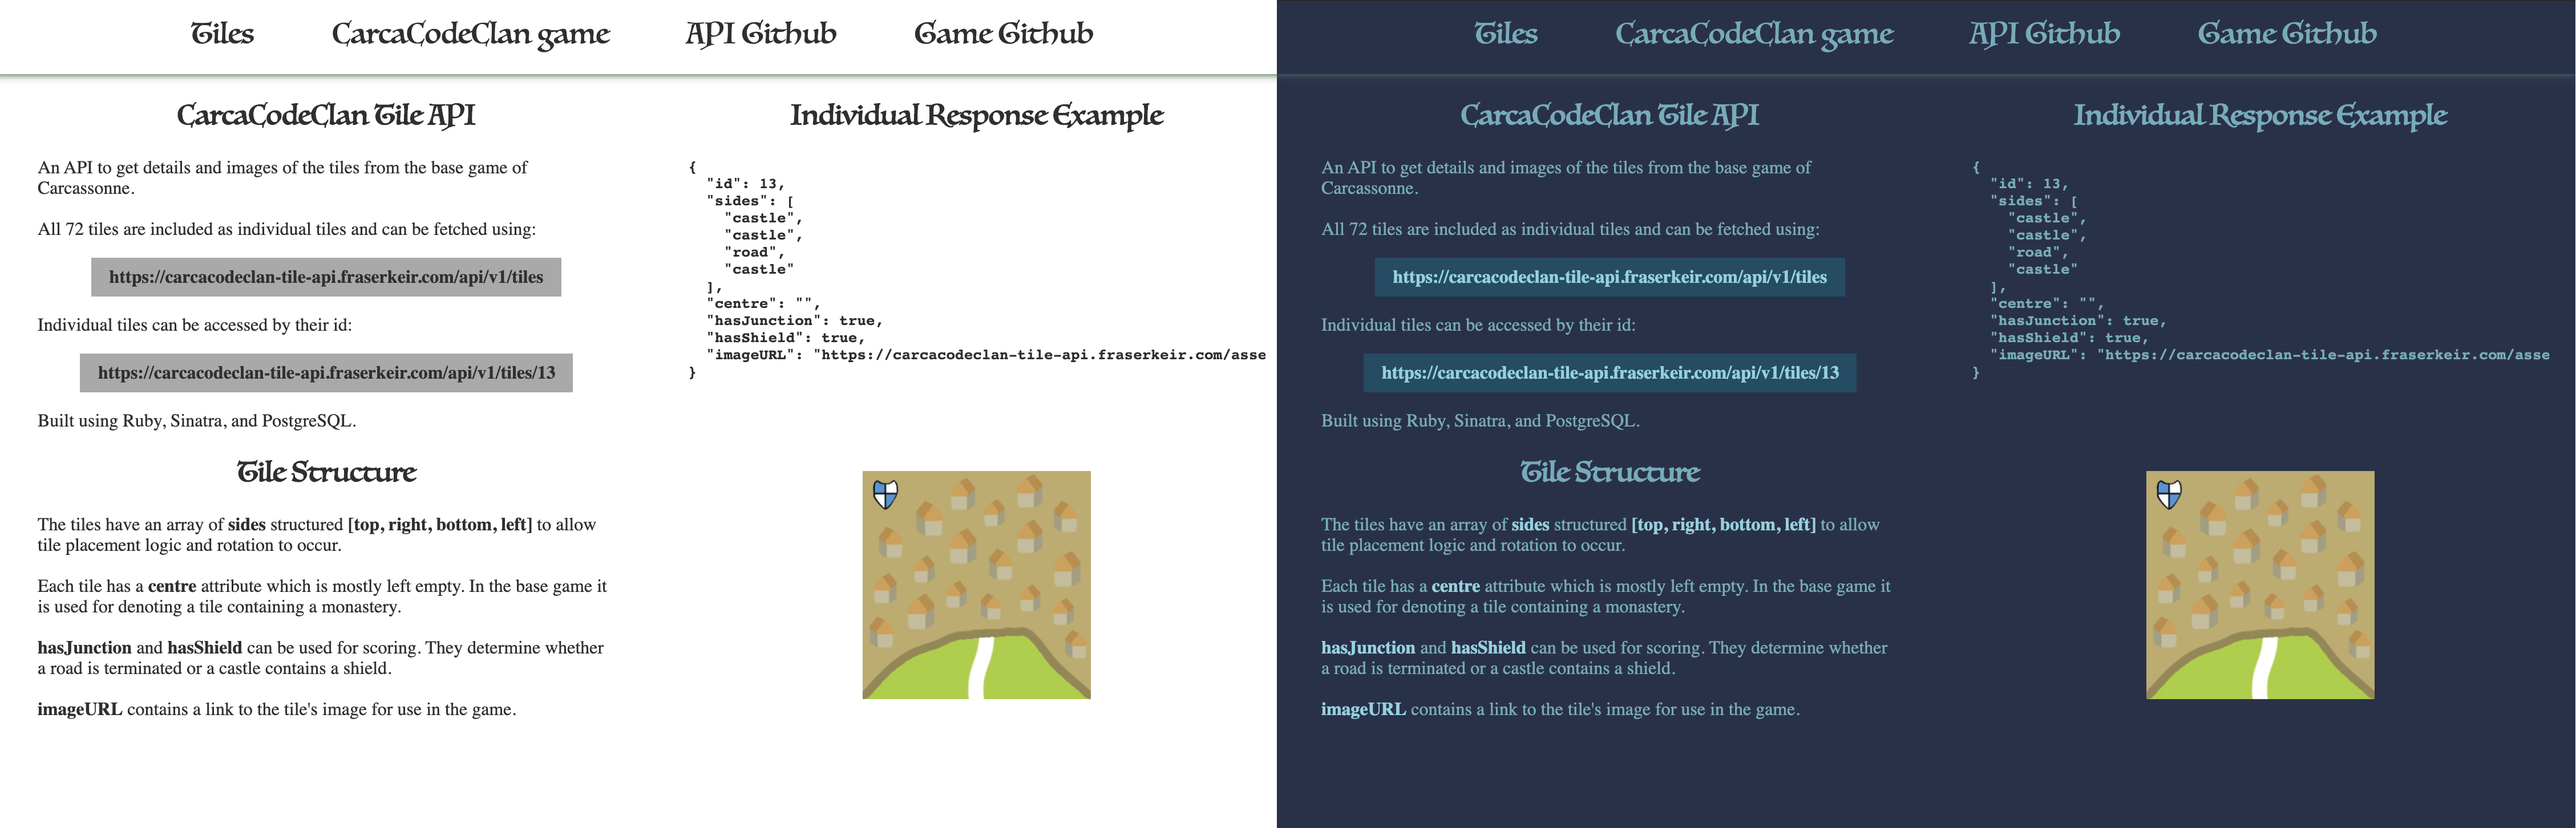
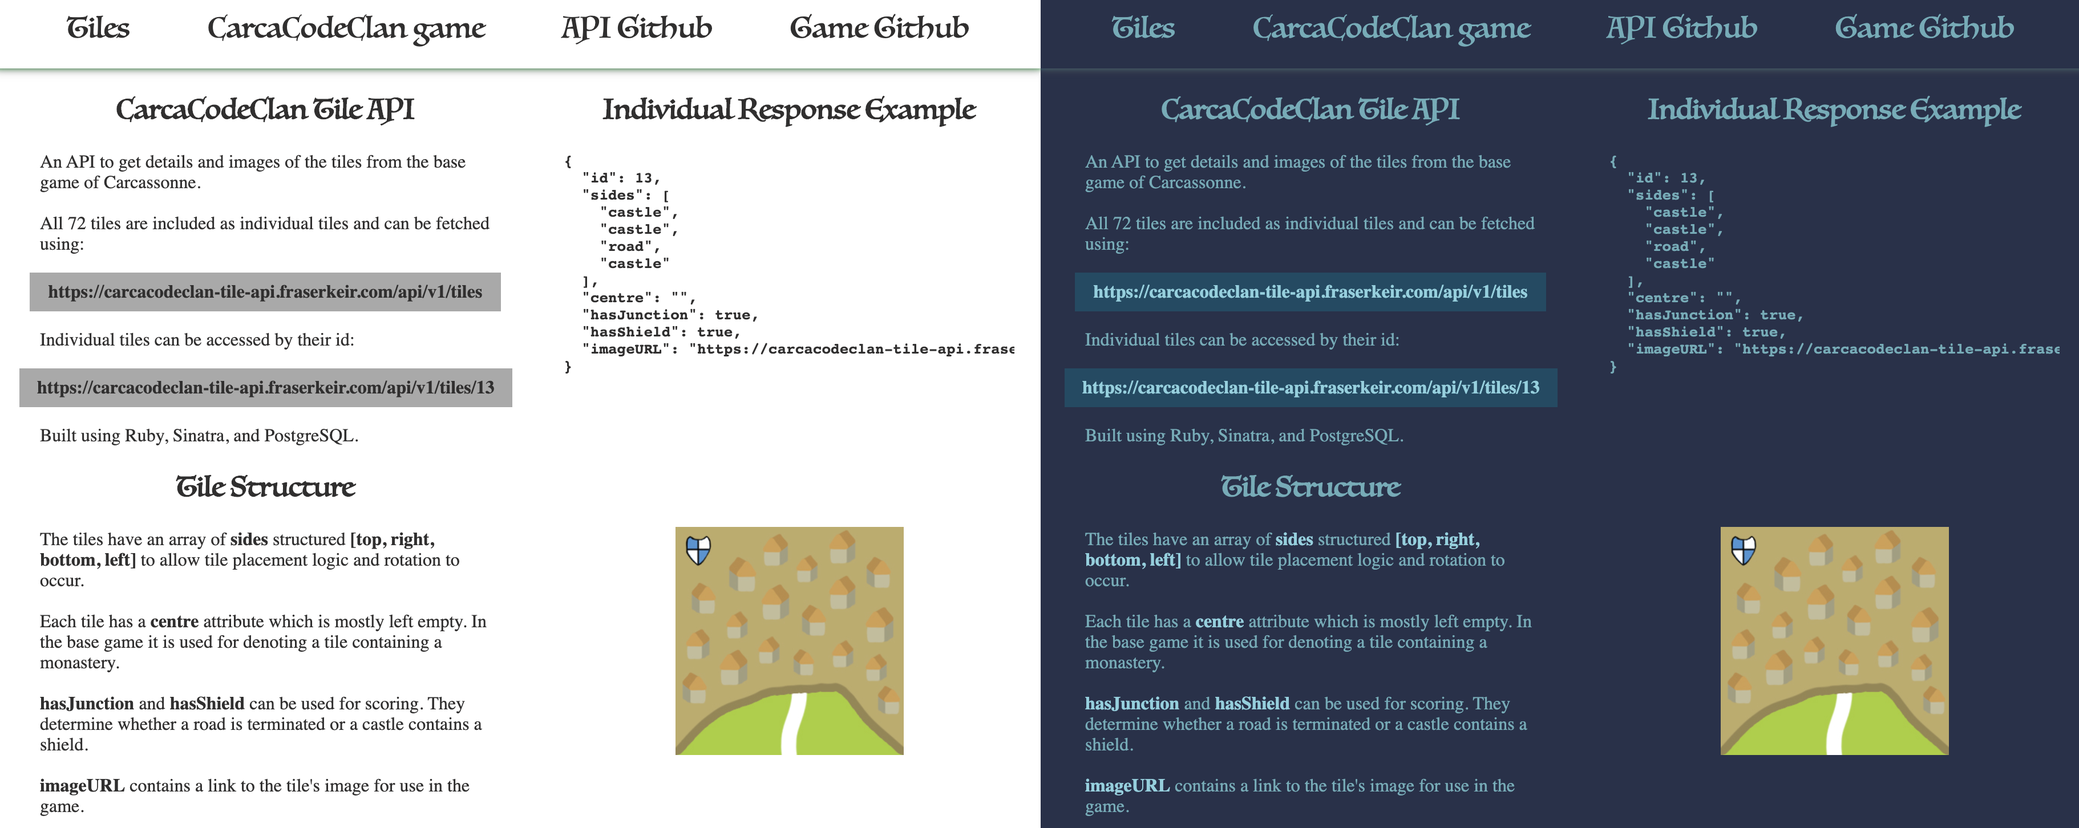
Update readme

diff --git a/README.md b/README.md
@@ -58,7 +58,7 @@ imageURL contains a link to the tile's image for use in the game.
 
 ### Automatic dark mode
 
-<img src="./public/readme_images/light_dark_mode.png" height="400" alt="Light mode vs. Dark mode"/>
+<img src="./public/readme_images/light_dark_mode.png" height="300" alt="Light mode vs. Dark mode"/>
 
 The homepage of the API is available in light and dark modes. The styling uses a media query to detect the preferred display mode of the user.
 
